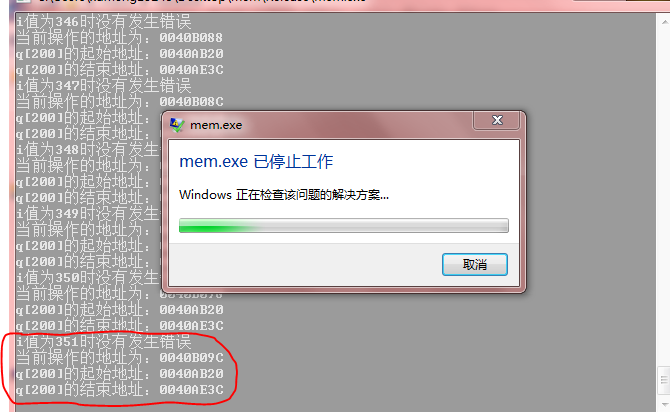
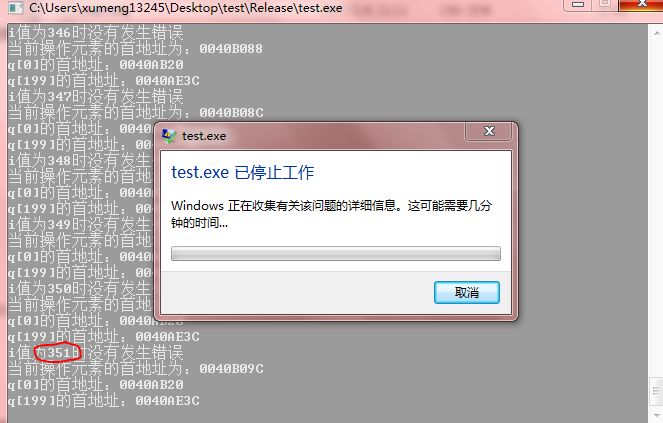
linux windows

Changed region(s): [[0.0, 0.0, 1.0, 1.0], [0.9653, 0.8738, 1.0, 0.932]]

diff --git a/_posts/2017-01-01-01-windows-process-memory-20170101.md b/_posts/2017-01-01-01-windows-process-memory-20170101.md
@@ -320,13 +320,13 @@ int main()
 
 ![image](../media/image/2017-01-01/09.png)
 
-根据以上的输出，可以看到q[200]的起始地址为0x0040AB20，结束地址是0x0040AE3C，当前正在访问的地址是0x0040B09C
+根据以上的输出，可以看到q[]的起始地址为0x0040AB20，q[199]的首地址是0x0040AE3C（q[]的结束地址是0x0040AE3C+4=0x0040AE40），当前正在访问元素的首地址是0x0040B09C
 
-考虑到本台测试机器的页大小是4096字节，进程是32位的。所以虚拟地址被分解为20位的页号和12位的偏移量。本例中，q[]数组的结束地址所在的虚拟页号是0x0040A=1034，偏移量是0xE3C=3644。因此分配了q的内存的页上仍然有4096-3644=452字节，该空间可以存放452/4=113个int型变量
+考虑到本台测试机器的页大小是4096字节，进程是32位的。所以虚拟地址被分解为20位的页号和12位的偏移量。本例中，q[]数组的结束地址所在的虚拟页号是0x0040A=1034，偏移量是0xE3C=3648。因此分配了q的内存的页上仍然有4096-3644=448字节，该空间可以存放448/4=112个int型变量
 
 如上面的运行情况，当出现越界写操作时，编译器在编译时没有报错，在一定范围的越界时硬件也没有报错。因为这种写操作仍然是在我们肯定具有写权限的页上执行的（因为q[]的实际元素位于该数据段上，所以在其中分配了q[]），只有当i变成351+1时，q[i]才会引用某个页上不具备写权限的内存。在这种情况下，它就是我们所说的不具有写权限的内存，虚拟内存硬件检测到这一点，并触发了一个错误
 
-由于每个整数变量都存储在4字节中，因此这个页包含113(452/4)个额外的“幻影”元素，代码将它作为属于数组q[]对待，因此虽然我们没有打算应按这样的方式处理，但访问q[200]、q[201]..一直到元素199+113=312，即q[312]仍然是合法的（不会导致非法内存访问），只有当试图访问q[313]时才会遇到新页，你可能有也可能没有对它的必需访问权限。但这个例子中，我们的程序没有在访问q[313]时报错，说明对下一个页还是有写权限，但是继续往下访问，直到尝试去访问q[352]时，才遇到不可写的内存才导致出错
+由于每个整数变量都存储在4字节中，因此这个页包含112(448/4)个额外的“幻影”元素，代码将它作为属于数组q[]对待，因此虽然我们没有打算应按这样的方式处理，但访问q[200]、q[201]..一直到元素200+112=312，即q[312]仍然是合法的（不会导致非法内存访问），只有当试图访问q[313]时才会遇到新页，你可能有也可能没有对它的必需访问权限。但这个例子中，我们的程序没有在访问q[313]时报错，说明对下一个页还是有写权限，但是继续往下访问，直到尝试去访问q[352]时，才遇到不可写的内存才导致出错
 
 ```
 疑问二：

diff --git a/_posts/2017-01-01-02-linux-process-memory-20170101.md b/_posts/2017-01-01-02-linux-process-memory-20170101.md
@@ -66,7 +66,7 @@ int main(void)
 
 ![image](../media/image/2017-01-01/23.png)
 
-从运行输出的各个段的地址大小比较来看，确实符合下图的32位进程内存模型（比如栈内存地址大于堆内存地址……），与在64位Windows平台上运行32位Exe程序输出的效果不同！
+>从运行输出的各个段的地址大小比较来看，确实符合下图的32位进程内存模型（比如栈内存地址大于堆内存地址……）。但[《Windows下32位进程内存模型》](http://www.xumenger.com/01-windows-process-memory-20170101/)之中对应的测试和我的初始预期仍有出入，具体原因还有待深究！
 
 ![image](../media/image/2017-01-01/24.png)
 
@@ -123,4 +123,10 @@ int main()
 
 对于上面的程序，当数组越界时并没有立马出错，而是当**i=1007+1=1008**时才出现报错
 
-按照程序运行的输出，q[]数组在地址0x804a35c+4=0x804a360处结束，即q[199]元素的首地址+4。考虑到内存页大小是4096 Bytes，程序是32位的程序，所以一个虚拟地址被分为20位的页号和12位的偏移量。在本程序中，q[]在虚拟页号0x0804a=32842处结束，偏移量是0x360=864，因此分配了q的页上仍有4096-864=3232个字节，该空间可以存放3232/4=808个整型变量，所以当试图访问第200+808=1008个元素时就要引用其他页上的地址，在这种情况下，它就是所谓的不具有写权限的页，虚拟内存硬件检测到了这一点，就触发了段错误
+按照程序运行的输出，q[]数组在地址0x804a35c+4=0x804a360处结束，即q[199]元素的首地址+4
+
+考虑到内存页大小是4096 Bytes，程序是32位的程序，所以一个虚拟地址被分为20位的页号和12位的偏移量。在本程序中，q[]在虚拟页号0x0804a=32842处结束，偏移量是0x360=864，因此分配了q的页上仍有4096-864=3232个字节，该空间可以存放3232/4=808个整型变量，所以当试图访问第200+808=1008个元素时就要引用其他页上的地址，在这种情况下，它就是所谓的不具有写权限的页，虚拟内存硬件检测到了这一点，就触发了段错误
+
+>以上可以完美的使用内存页机制进行解释，但[《Windows下32位进程内存模型》](http://www.xumenger.com/01-windows-process-memory-20170101/)之中对应的测试和我的初始预期仍有出入，具体原因还有待深究！
+
+>Linux上的运行情况完全可以用进程内存模型、内存页的理论进行解释，但是Windows平台上对应的测试却和预期有出入，难道Windows平台的进程内存模型和Linux的进程内存模型、虚拟内存的权限机制等细节存在如此大的差别？
